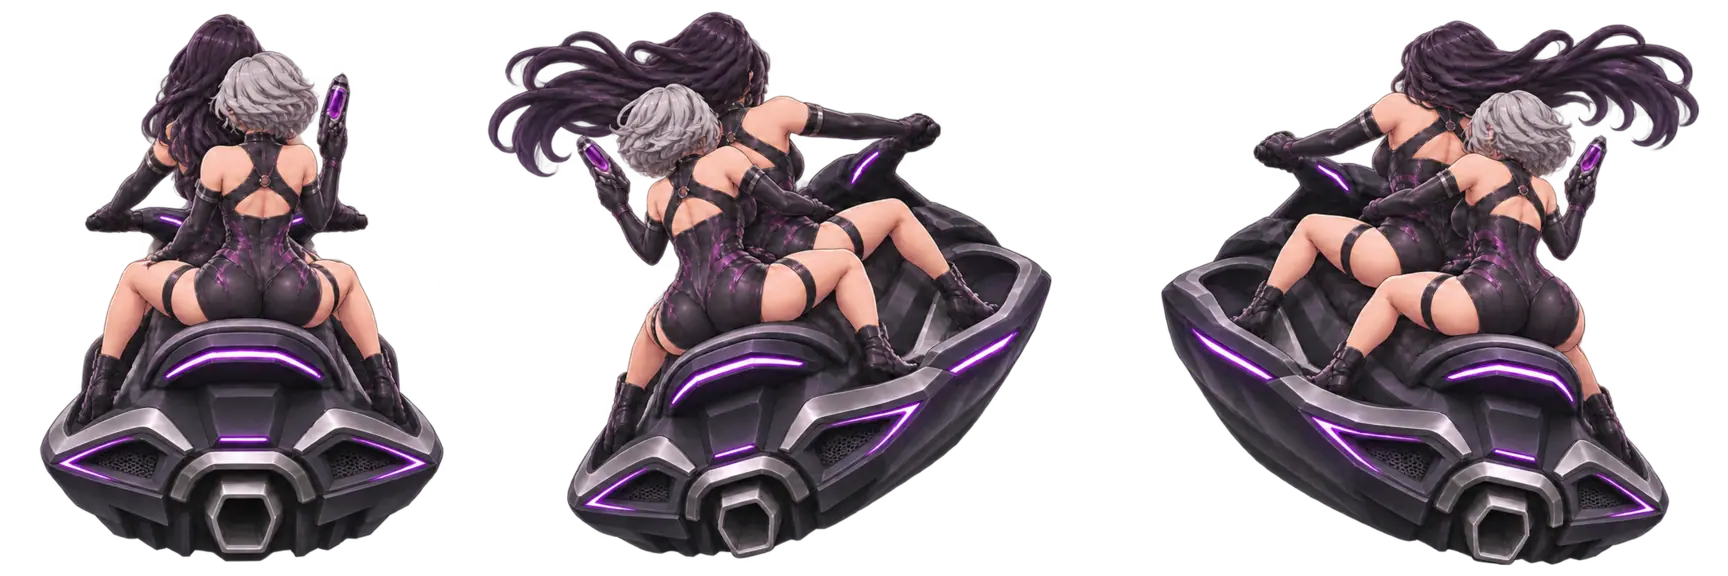
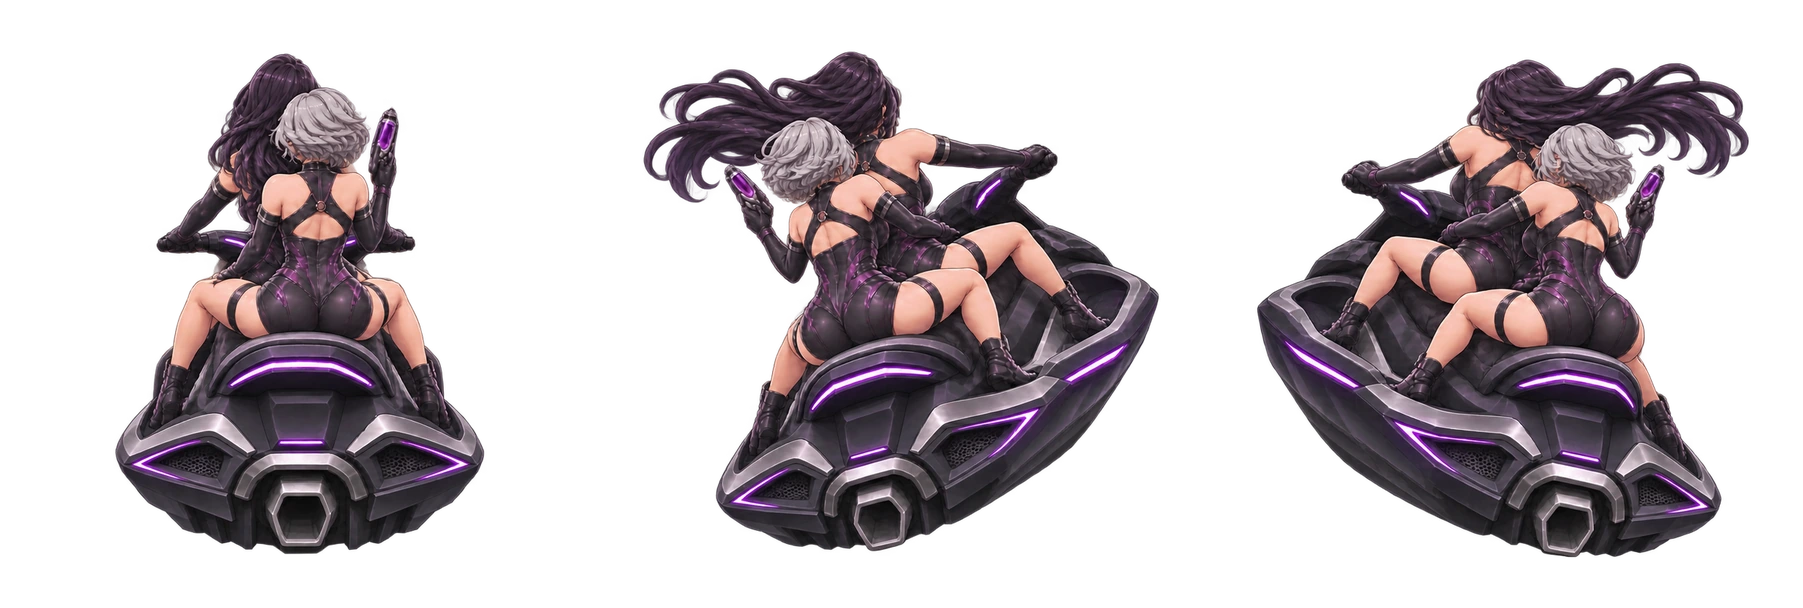
Rebuild complete alpha cutouts and padded rival sprite sheets

diff --git a/rebuild-team-sheets.py b/rebuild-team-sheets.py
@@ -1,0 +1,110 @@
+"""Rebuild GAIA JET DUO team sprites without clipping artwork.
+
+Each 3-pose source PNG has THREE large disconnected alpha components, but
+the horizontal gaps are not at width/3 or 2*width/3. Reassemble the actual
+components into clean, evenly sized sprite cells with generous padding.
+
+This is deterministic image extraction, not generative repainting. Original
+artwork remains untouched in assets-source/teams/.
+"""
+
+from pathlib import Path
+
+import numpy as np
+from PIL import Image
+from scipy.ndimage import find_objects, label
+
+
+ROOT = Path(__file__).resolve().parent
+SOURCE = ROOT / "assets-source" / "teams"
+CLEAN = ROOT / "assets-clean" / "teams"
+WEBP = ROOT / "assets" / "teams"
+PADDING = 56
+
+
+def extract_major_components(image, expected):
+    pixels = np.asarray(image.convert("RGBA"))
+    alpha = pixels[:, :, 3] > 0
+    labels, count = label(alpha, structure=np.ones((3, 3), dtype=np.uint8))
+    sizes = np.bincount(labels.ravel())
+    sizes[0] = 0
+    selected = sorted(np.argsort(sizes)[-expected:].tolist())
+    if len(selected) != expected or min(sizes[i] for i in selected) < pixels.shape[0] * pixels.shape[1] * .025:
+        raise ValueError(f"Expected {expected} distinct, substantial artwork components; found {count} labels")
+
+    slices = find_objects(labels)
+    parts = []
+    for index in selected:
+        sy, sx = slices[index - 1]
+        cropped = pixels[sy, sx].copy()
+        cropped[:, :, 3] = np.where(labels[sy, sx] == index, cropped[:, :, 3], 0)
+        parts.append((sx.start, sy.start, Image.fromarray(cropped, "RGBA")))
+    parts.sort(key=lambda p: p[0])
+    return parts
+
+
+def prepare_three_pose(source):
+    parts = extract_major_components(source, 3)
+    cell_width = max(p.width for _, _, p in parts) + PADDING * 2
+    cell_height = source.height + PADDING * 2
+    clean = Image.new("RGBA", (cell_width * 3, cell_height), (0, 0, 0, 0))
+    for frame, (_, top, part) in enumerate(parts):
+        x = frame * cell_width + (cell_width - part.width) // 2
+        clean.paste(part, (x, top + PADDING))
+    return clean
+
+
+def prepare_front(source):
+    parts = extract_major_components(source, 1)
+    _, _, part = parts[0]
+    clean = Image.new("RGBA", (part.width + PADDING * 2, part.height + PADDING * 2), (0, 0, 0, 0))
+    clean.paste(part, (PADDING, PADDING))
+    return clean
+
+
+def validate(sheet, frames):
+    arr = np.asarray(sheet.getchannel("A"))
+    width = sheet.width // frames
+    assert width * frames == sheet.width
+    for i in range(frames):
+        frame = arr[:, i * width:(i + 1) * width]
+        # Zero alpha on all four edges of every cell, including cropped turns.
+        assert not frame[0, :].any(), "Top cut detected"
+        assert not frame[-1, :].any(), "Bottom cut detected"
+        assert not frame[:, :24].any(), "Left cut detected"
+        assert not frame[:, -24:].any(), "Right cut detected"
+        assert frame.any(), "Missing frame"
+
+
+def run():
+    CLEAN.mkdir(parents=True, exist_ok=True)
+    WEBP.mkdir(parents=True, exist_ok=True)
+    report = []
+    files = sorted(SOURCE.glob("GAIA-JET-*.png"))
+    assert len(files) == 21, f"Expected 21 original files, found {len(files)}"
+    for path in files:
+        with Image.open(path) as original:
+            original = original.convert("RGBA")
+            frames = 1 if "-01-front" in path.name else 3
+            clean = prepare_front(original) if frames == 1 else prepare_three_pose(original)
+        validate(clean, frames)
+
+        png_file = CLEAN / path.name
+        clean.save(png_file, "PNG", optimize=True)
+
+        # Resize as complete cells: the new frame width remains exactly divisible by 3.
+        target_h = 768 if frames == 1 else (640 if "ROYAL" in path.name else 608)
+        ratio = target_h / clean.height
+        cell_width = clean.width // frames
+        scaled_cell_width = max(1, round(cell_width * ratio))
+        scaled = clean.resize((scaled_cell_width * frames, target_h), Image.Resampling.LANCZOS)
+        validate(scaled, frames)
+        webp_file = WEBP / path.with_suffix(".webp").name
+        scaled.save(webp_file, "WEBP", quality=93, method=6)
+        report.append(f"{path.name}: {original.width}x{original.height} -> clean {clean.width}x{clean.height} -> game {scaled.width}x{scaled.height}")
+    print("\n".join(report))
+    print(f"Validated {len(report)} uncut sprites / {7 * 6} complete animated frames")
+
+
+if __name__ == "__main__":
+    run()

diff --git a/HANDOFF.md b/HANDOFF.md
@@ -47,4 +47,13 @@ node bundle.mjs
 node smoke-preview.cjs ../GAIA-JET-DUO-v14-7TEAM.html --physics-tests
 ```
 
-Both source and bundled offline tests passed in this session. The generated single-file HTML is outside the repo root: `../GAIA-JET-DUO-v14-7TEAM.html` (~8.13 MB). The bundler/tests now reject empty team images: one zero-byte ROYAL front WebP was detected during review and rebuilt from the unchanged original PNG. Check any new commit and `git ls-remote` against GitHub after pushing, and record exactly whether the push succeeded.
+Both source and bundled offline tests passed for the earlier v14 test. The bundler/tests reject empty team images: one zero-byte ROYAL front WebP was detected during review and rebuilt from the unchanged original PNG. Check any new commit and `git ls-remote` against GitHub after pushing, and record exactly whether the push succeeded.
+
+## Critical art correction (v14.1)
+
+- The user's review correctly identified serious art clipping. The original sheets are **not divided into equal-width cells**. Example: KPOP move pose 1 ends around x=560 rather than x=724, meaning the former fixed-width slice cut through pose 2. Many teams have the same problem.
+- `rebuild-team-sheets.py` now extracts the three *actual independent connected RGBA figures* in each source sheet, preserving original pixels in their entirety while removing disconnected background specks. Each figure is centered in a separate generously padded cell, and all borders are validated to have clear transparent margins.
+- New transparent PNG master sprites: `assets-clean/teams/` (21). New game WebPs overwrite only the previous broken **derived** files in `assets/teams/` (21). The originals in `assets-source/teams/` remain untouched.
+- Visual QA contact sheets: `../GAIA-JET-DUO-v14-CUTOUT-QA-MOVE.png`, `../GAIA-JET-DUO-v14-CUTOUT-QA-ATTACK.png`. Source and packed gameplay preview show intact silhouettes; all 42 animated frame borders pass automatic tests.
+- Some **original source art** reaches the original canvas boundary (e.g. ROYAL attack ponytail at image top). No art outside that source exists to extract; any pixel-perfect outpainting at those original edges requires separately approved illustration repair. The current correction eliminates **all newly introduced frame-cutting**, not missing source pixels.
+- Rebuild offline game with `node bundle.mjs` → `../GAIA-JET-DUO-v14.1-CLEAN.html`, then run both source and bundled smoke tests.

diff --git a/README.md b/README.md
@@ -5,12 +5,16 @@
 - `index.html` — browser playable source (load with the `assets/` directory).
 - `assets/` — optimized game textures and character sprites, including seven teams × three poses and three water/scenery variants.
 - `assets-source/teams/` — original, unmodified PNG sheets for all seven rival teams (21 images).
+- `assets-clean/teams/` — properly segmented, transparent, padded PNG sheets (21 images, each pose in a clean cell).
 - `assets-source/` — original unoptimized water and buoy source images.
+- `rebuild-team-sheets.py` — reproducible alpha-component extraction and per-frame clipping validation.
 - `bundle.mjs` — builds a single offline HTML file with embedded assets.
 - `smoke-preview.cjs` — preview, physics and combat smoke tests.
 - `HANDOFF.md` — verified status, decisions, open issues and tests for the next session.
 
-Run `node bundle.mjs` to create `../GAIA-JET-DUO-v14-7TEAM.html` as a standalone offline game file. Run `node smoke-preview.cjs --physics-tests` to verify the original physics plus watergun, combo and neon-heart interactions; run with `../GAIA-JET-DUO-v14-7TEAM.html` to test the offline file too.
+Run `node bundle.mjs` to create `../GAIA-JET-DUO-v14.1-CLEAN.html` as a standalone offline game file. Run `node smoke-preview.cjs --physics-tests` to verify the original physics plus watergun, combo and neon-heart interactions; run with `../GAIA-JET-DUO-v14.1-CLEAN.html` to test the offline file too.
+
+**Sprite cutout repair:** the original 3-pose image sheets were *not* evenly spaced; naive `width/3` cropping cut whole characters and jetski hulls. Use `python rebuild-team-sheets.py` to detect the three largest intact alpha components, place each on its own generously padded cell, strip detached speck components, export cleaned transparent PNGs and correctly aligned compressed game WebPs, and assert alpha-free frame borders. Do not split the original source sheets into three equal widths again.
 
 The existing craft/buoy collisions, inertia, boost surge/decay, jumping and water-wave motions are retained. The front/back fire buttons now create projectiles; water hits slow steering and speed, and ten consecutive hits cause a larger slowdown. AI gunners shoot backwards toward the player. Neon-heart pickups, hitting rivals, jumps and steering charge the booster meter. The opening card previews all seven teams; each racing team has animated rear movement and rear-fire art.
 
